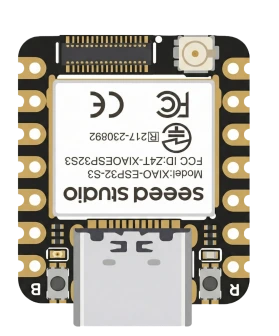
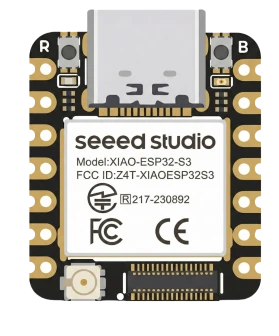
pinout: s3 正面图再转 180°（USB 朝上）+ 更新焊盘坐标

diff --git a/src/app/products/pinout.js b/src/app/products/pinout.js
@@ -159,10 +159,10 @@ const STD_PAD_Y = {
   left:  [22.5, 33.1, 43.4, 53.7, 64.1, 74.4, 84.7],
   right: [22.5, 33.1, 43.4, 53.7, 64.1, 74.4, 84.7],
 };
-/* ESP32-S3 Sense 正面图（旋转成竖向后，由像素检测的实际焊盘圆心 Y%） */
+/* ESP32-S3 Sense 正面图（USB 朝上，由像素检测的实际焊盘圆心 Y%） */
 const S3_PAD_Y = {
-  left:  [19.94, 29.76, 39.58, 49.4, 59.23, 69.05, 78.87],
-  right: [20.24, 30.06, 39.88, 49.7, 59.52, 69.35, 79.17],
+  left:  [20.24, 30.06, 39.88, 49.7, 59.52, 69.35, 79.17],
+  right: [20.54, 30.36, 40.18, 50.0, 59.82, 69.64, 79.46],
 };
 
 /* ESP32-S3：D0-D5、D8-D12 均为 ADC（D4/D5 兼 I2C，D8-D10 兼 SPI）；JTAG: MTDO/MTDI/MTCK/MTMS */
